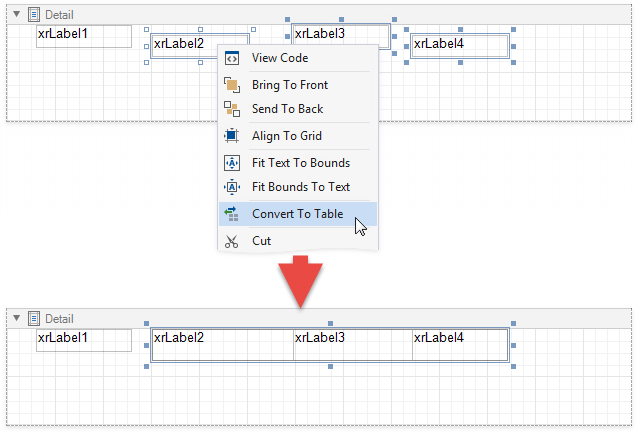
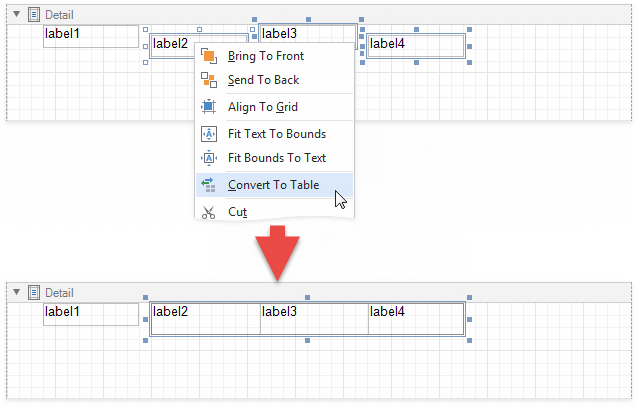
Update description

Changed region(s): [[0.0, 0.0, 1.0, 0.855], [0.0, 0.973, 0.9828, 1.0], [0.5956, 0.2654, 0.9828, 0.2948]]

diff --git a/interface-elements-for-desktop/articles/report-designer/report-designer-for-winforms/use-report-elements/use-basic-report-controls/label.md b/interface-elements-for-desktop/articles/report-designer/report-designer-for-winforms/use-report-elements/use-basic-report-controls/label.md
@@ -95,6 +95,26 @@ You can also use the opposite **Text Fit Mode** property to adjust a control's f
 
 See the [Arrange Dynamic Report Content](../../lay-out-dynamic-report-content.md) topic for more information.
 
+### Convert Labels to Table
+
+You can convert multiple labels to a [table](../use-tables.md) to save time on control alignment and to reduce a chance of misaligned controls.
+
+Hold CTRL or SHIFT and click labels to select them. Right-click any of the selected labels and select **Convert To Table** from the context menu. A table with one row is added to the report instead of the selected labels.
+
+![](../../../../../images/eurd-win-label-convert-to-table.png)
+
+The **Convert To Table** option is not available if any of the selected labels overlap horizontally.
+
+![](../../../../../images/eurd-win-label-labels-overlap.png)
+
+The created table occupies horizontal space from the leftmost label's left edge to the rightmost label's right edge, and vertical space from the topmost label's top edge to the lowest label's bottom edge.
+
+The horizontal gap between labels is included in the left cell.
+
+![](../../../../../images/eurd-win-table-space-between-labels.png)
+
+The table cells copy appearance and data-related property values from the labels.
+
 ## Interactivity
 
 Check the **Enabled** option in the **Edit Options** category to allow users to [edit a label's content](../../provide-interactivity/edit-content-in-print-preview.md) in Print Preview mode.

diff --git a/interface-elements-for-desktop/articles/report-designer/report-designer-for-winforms/use-report-elements/use-tables.md b/interface-elements-for-desktop/articles/report-designer/report-designer-for-winforms/use-report-elements/use-tables.md
@@ -10,6 +10,7 @@ The documents in this section describe the **Table** control and illustrate its 
 * [Bind Table Cells to Data](use-tables/bind-table-cells-to-data.md)
 * [Manage Table Structure](use-tables/manage-table-structure.md)
 * [Manipulate Table Elements](use-tables/manage-table-structure.md)
+* [Convert Labels to Table](manipulate-report-elements/convert-labels-to-table.md)
 * [Hide Table Cells](use-tables/hide-table-cells.md)
 
 > [!Note]
